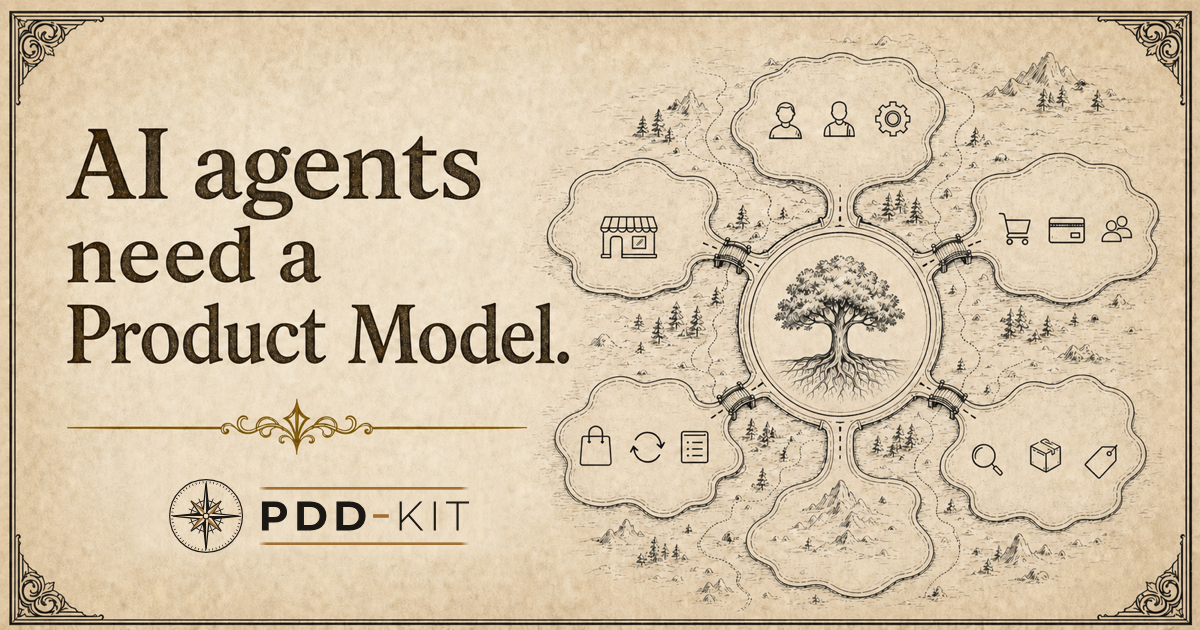
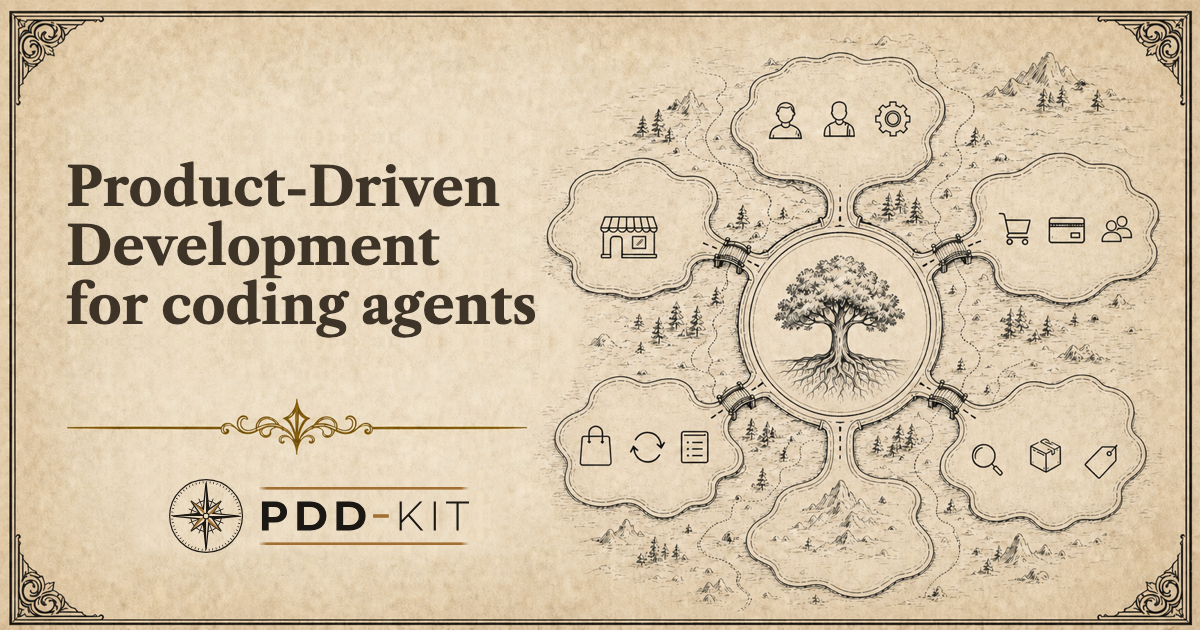
docs(site): one open-source answer, the hero line on the card and docs
The FAQ folds cost, data and accounts into "Is it fully open source?",
which also says there is no plan for a commercial product. The social
card and the docs introduction lead with the hero's "Product-Driven
Development for coding agents", and /blueprints calls its models
community-contributed in two lines.

Changed region(s): [[0.0308, 0.181, 0.4933, 0.6032]]

diff --git a/site/tests/e2e/docs.spec.ts b/site/tests/e2e/docs.spec.ts
@@ -12,7 +12,7 @@ test('renders the docs with a grouped sidebar and TOC', async ({ page }) => {
 
   await expect(page.locator('header').getByRole('button', { name: 'Search' })).toBeVisible()
   await expect(page.locator('aside').getByRole('button', { name: 'Search' })).toHaveCount(0)
-  await expect(page.getByRole('heading', { level: 1, name: 'pdd-kit: Product-Driven Development for coding agents' })).toBeVisible()
+  await expect(page.getByRole('heading', { level: 1, name: 'Product-Driven Development for coding agents' })).toBeVisible()
   await expect(page.getByRole('link', { name: 'Introduction' }).first()).toBeVisible()
 
   await page.locator('aside a[href="/docs/cli-lint"]').click()
@@ -90,7 +90,7 @@ test('the sidebar keeps its scroll position across docs pages', async ({ page })
 
   await aside.locator(`a[href="${href}"]`).click()
   await expect(page).toHaveURL(new RegExp(`${href}$`))
-  await expect(page.locator('main h1')).not.toHaveText('pdd-kit: Product-Driven Development for coding agents')
+  await expect(page.locator('main h1')).not.toHaveText('Product-Driven Development for coding agents')
   await expect.poll(() => aside.evaluate(el => el.scrollTop)).toBe(offset)
 })
 

diff --git a/site/tests/e2e/landing.desktop.spec.ts b/site/tests/e2e/landing.desktop.spec.ts
@@ -276,9 +276,9 @@ test.describe('the marketing arrangements', () => {
     const prdReferencesLink = page.getByRole('link', { name: 'See how references work' })
     await expect(prdReferencesLink).toBeHidden()
 
-    await page.getByRole('button', { name: 'Do I need an account?' }).click()
+    await page.getByRole('button', { name: 'Is it fully open source?' }).click()
     await expect(
-      page.getByText('Listing and pulling Blueprints are anonymous', { exact: false })
+      page.getByText('There is no plan to build a commercial product on top of it.', { exact: false })
     ).toBeVisible()
 
     await page.getByRole('button', { name: 'My product spans multiple repositories — is that supported?' }).click()

diff --git a/site/tests/e2e/landing.spec.ts b/site/tests/e2e/landing.spec.ts
@@ -244,7 +244,7 @@ test('the FAQ has no automatically detectable WCAG A/AA violations', async ({ pa
   // Answers are collapsed, so the scan above only saw the closed page. The
   // desktop suite opens one and scans again — an expanded panel is a tree this
   // page never otherwise renders.
-  await expect(page.getByRole('button', { name: 'Do I need an account?' })).toBeVisible()
+  await expect(page.getByRole('button', { name: 'Is it fully open source?' })).toBeVisible()
   for (const name of ['Adopting it', 'What it is and isn\'t', 'Getting started', 'Trust and help']) {
     await expect(page.getByRole('heading', { name, exact: true })).toBeVisible()
   }

diff --git a/site/app/components/landing/blueprints/CatalogHero.vue b/site/app/components/landing/blueprints/CatalogHero.vue
@@ -44,11 +44,10 @@ const { enterMotion } = useLandingMotion()
     <Motion
       as="p"
       v-bind="enterMotion(0.35)"
-      class="mt-4 max-w-xl text-lg leading-relaxed text-default"
+      class="mt-4 max-w-2xl text-lg leading-relaxed text-default"
     >
-      Each Blueprint is a reviewed Product Model of a common product, open to
-      contributions. Pull one into your repository with one command and change
-      it freely.
+      Community-contributed Product Models of common products. Pull one into
+      your repository with one command and change it freely.
     </Motion>
   </header>
 </template>

diff --git a/site/app/pages/blueprints/index.vue b/site/app/pages/blueprints/index.vue
@@ -5,7 +5,7 @@ import CatalogLayout from '~/components/landing/blueprints/CatalogLayout.vue'
 
 useSiteSeo({
   title: 'Blueprints · pdd-kit',
-  description: 'Reviewed Product Models of common products. Pull one into your repository with one command and hand it to your coding agent.'
+  description: 'Community-contributed Product Models of common products. Pull one into your repository with one command and hand it to your coding agent.'
 })
 
 useHead({

diff --git a/docs/faq.md b/docs/faq.md
@@ -306,29 +306,13 @@ progress.
 
 ## Trust and help
 
-What it costs, what leaves your machine, and where to get help.
+Whether it is open source, and where to get help.
 
-### What does it cost?
+### Is it fully open source?
 
-Nothing. pdd-kit is an open-source project: the format, the CLI, the skills, and the Blueprints
-are all MIT licensed, and everything runs in your own repository and coding-agent harness.
-
-### Does my code leave my machine?
-
-The pdd-kit CLI does not upload your code or Product Model. Linting, export, and expanding a
-pulled model run locally. The map, ideate, and verify skills run inside the coding-agent harness you
-chose, so that harness’s data handling and permissions still apply.
-
-The CLI reaches the network only for explicit operations: listing and pulling download Blueprints
-from a GitHub Release, contributing uses your own authenticated GitHub CLI to open a public pull
-request, and running the package through npx contacts the registry. Everything the CLI does is
-auditable in the [public source](https://github.com/itai-gendler/pdd-kit). What the site keeps is set out in the
-[privacy policy](https://pdd-kit.dev/privacy).
-
-### Do I need an account?
-
-No. Listing and pulling Blueprints are anonymous — no account, sign-in, or credential
-is involved at any point, and the site has no accounts at all.
+Yes. The format, the CLI, the skills, and the Blueprints are all MIT licensed and run in your own
+repository and coding-agent harness, with no account, and the CLI never uploads your code or
+Product Model. There is no plan to build a commercial product on top of it.
 
 ### How do I contribute a Blueprint?
 

diff --git a/docs/index.md b/docs/index.md
@@ -6,7 +6,7 @@ group: Get started
 order: 1
 ---
 
-# pdd-kit: Product-Driven Development for coding agents
+# Product-Driven Development for coding agents
 
 pdd-kit is Product-Driven Development for coding agents. It keeps a
 durable Product contract in `product-model/`: what your product does, for whom,
